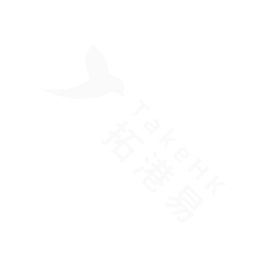
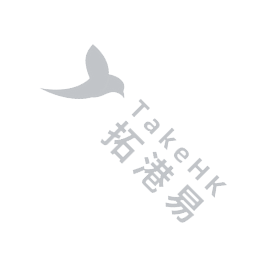
更新對話框界面的語言

diff --git a/app/javascript/entrypoints/hero-dock.js b/app/javascript/entrypoints/hero-dock.js
@@ -20,6 +20,8 @@ const DEFAULT_TOPICS = [
 ];
 const WIDGET_PREFIX = 'chatwoot-widget:';
 const STYLE_ID = 'takehk-hero-dock-styles';
+let pendingLocale = '';
+let liveChat = null;
 
 function reducedMotion() {
   return (
@@ -204,10 +206,11 @@ function mountStream(stream, topics, reduced) {
   window.requestAnimationFrame(frame);
 }
 
-function widgetSettings() {
+function widgetSettings(options) {
   const settings = readBrandSettings();
+  const fromOptions = options && options.locale;
   return {
-    locale: settings.locale,
+    locale: pendingLocale || fromOptions || settings.locale,
     position: settings.position === 'left' ? 'left' : 'right',
     hideMessageBubble: true,
     showPopoutButton: !!settings.showPopoutButton,
@@ -271,7 +274,7 @@ function createLiveChat(options, requestClose, onReady) {
       const authToken = message.config && message.config.authToken;
       if (authToken) writeCookie(cookieName, authToken);
       ready = true;
-      const config = widgetSettings();
+      const config = widgetSettings(options);
       if (!config.locale) delete config.locale;
       post({ event: 'config-set', ...config });
       post({
@@ -321,7 +324,16 @@ function createLiveChat(options, requestClose, onReady) {
       wantsOpen = !!isOpen;
       publishOpenState();
     },
+    applyLocale(locale) {
+      if (!ready || !locale) return;
+      post({ event: 'set-locale', locale });
+    },
   };
+}
+
+export function setLocale(locale) {
+  pendingLocale = locale == null ? '' : String(locale);
+  if (pendingLocale && liveChat) liveChat.applyLocale(pendingLocale);
 }
 
 function resolvePhrases(options) {
@@ -538,6 +550,7 @@ export function run(options) {
     widgetReady = true;
     if (dock) dock.classList.remove('is-loading');
   });
+  liveChat = widget;
   dockApi = mountDock(target, {
     phrases: resolvePhrases(settings),
     reducedMotion: reduced,

diff --git a/app/javascript/widget/App.vue b/app/javascript/widget/App.vue
@@ -24,6 +24,7 @@ import { SDK_SET_BUBBLE_VISIBILITY } from '../shared/constants/sharedFrameEvents
 import { emitter } from 'shared/helpers/mitt';
 import { PRODUCT_COLOR } from 'shared/constants/productColor';
 import { readStoredTheme } from 'widget/helpers/threadTheme';
+import { normalizeWidgetLocale } from 'widget/helpers/takehkLocale';
 import {
   conversationEntryName,
   isDirectConversationEnabled,
@@ -166,18 +167,19 @@ export default {
       });
     },
     setLocale(localeWithVariation) {
-      if (!localeWithVariation) return;
+      const normalizedLocale = normalizeWidgetLocale(localeWithVariation);
+      if (!normalizedLocale) return;
       const { enabledLanguages } = window.chatwootWebChannel;
-      const localeWithoutVariation = localeWithVariation.split('_')[0];
+      const localeWithoutVariation = normalizedLocale.split('_')[0];
       const hasLocaleWithoutVariation = enabledLanguages.some(
         lang => lang.iso_639_1_code === localeWithoutVariation
       );
       const hasLocaleWithVariation = enabledLanguages.some(
-        lang => lang.iso_639_1_code === localeWithVariation
+        lang => lang.iso_639_1_code === normalizedLocale
       );
 
       if (hasLocaleWithVariation) {
-        this.$root.$i18n.locale = localeWithVariation;
+        this.$root.$i18n.locale = normalizedLocale;
       } else if (hasLocaleWithoutVariation) {
         this.$root.$i18n.locale = localeWithoutVariation;
       }

diff --git a/app/javascript/widget/helpers/takehkLocale.js b/app/javascript/widget/helpers/takehkLocale.js
@@ -1,0 +1,20 @@
+// Yii2 sends zh-TW, zh-CN, and en-US. The widget catalog uses zh_TW, zh_CN, and en.
+export function normalizeWidgetLocale(locale) {
+  if (locale == null || locale === '') return '';
+  const code = String(locale).trim().replace(/-/g, '_');
+  const lower = code.toLowerCase();
+
+  if (
+    lower === 'zh_tw' ||
+    lower === 'zh_hk' ||
+    lower === 'zh_mo' ||
+    lower.startsWith('zh_hant')
+  ) {
+    return 'zh_TW';
+  }
+  if (lower === 'zh_cn' || lower === 'zh_sg' || lower.startsWith('zh_hans')) {
+    return 'zh_CN';
+  }
+  if (lower === 'zh') return 'zh_TW';
+  return code;
+}

diff --git a/app/javascript/widget/helpers/takehkQuickActions.js b/app/javascript/widget/helpers/takehkQuickActions.js
@@ -7,11 +7,12 @@ export function visitorHasOpenedTopic(messages) {
   });
 }
 
-export function preferChineseLocale() {
-  const nav = (navigator.language || navigator.userLanguage || 'en').toLowerCase();
-  if (nav.startsWith('zh')) return true;
-  if (nav.startsWith('en')) return false;
-  return nav.indexOf('hk') !== -1 || nav.indexOf('tw') !== -1;
+export function preferChineseLocale(locale) {
+  const value = String(locale || '')
+    .trim()
+    .toLowerCase()
+    .replace(/-/g, '_');
+  return value === 'zh' || value.startsWith('zh_');
 }
 
 export function resolveQuickActions(source) {

diff --git a/app/javascript/entrypoints/sdk.js b/app/javascript/entrypoints/sdk.js
@@ -106,7 +106,7 @@ const runSDK = ({ baseUrl, websiteToken }) => {
       IFrameHelper.events.popoutChatWindow({
         baseUrl: window.$chatwoot.baseUrl,
         websiteToken: window.$chatwoot.websiteToken,
-        locale,
+        locale: window.$chatwoot.locale,
       });
     },
 
@@ -184,6 +184,7 @@ const runSDK = ({ baseUrl, websiteToken }) => {
     },
 
     setLocale(localeToBeUsed = 'en') {
+      window.$chatwoot.locale = localeToBeUsed;
       IFrameHelper.sendMessage('set-locale', { locale: localeToBeUsed });
     },
 

diff --git a/app/javascript/widget/components/QuickActionBar.vue b/app/javascript/widget/components/QuickActionBar.vue
@@ -20,7 +20,7 @@ export default {
   },
   computed: {
     useChinese() {
-      return preferChineseLocale();
+      return preferChineseLocale(this.$i18n.locale);
     },
     items() {
       return resolveQuickActions(this.actions);
